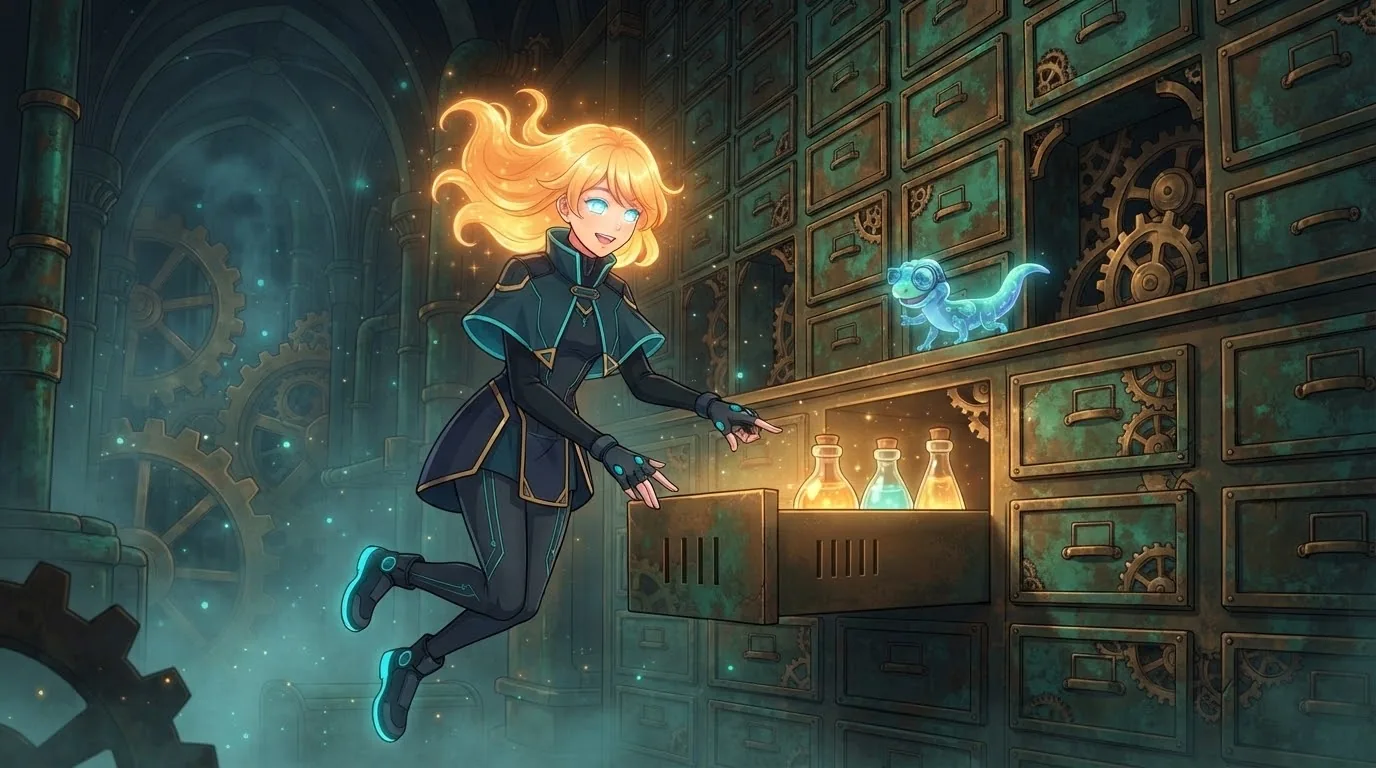
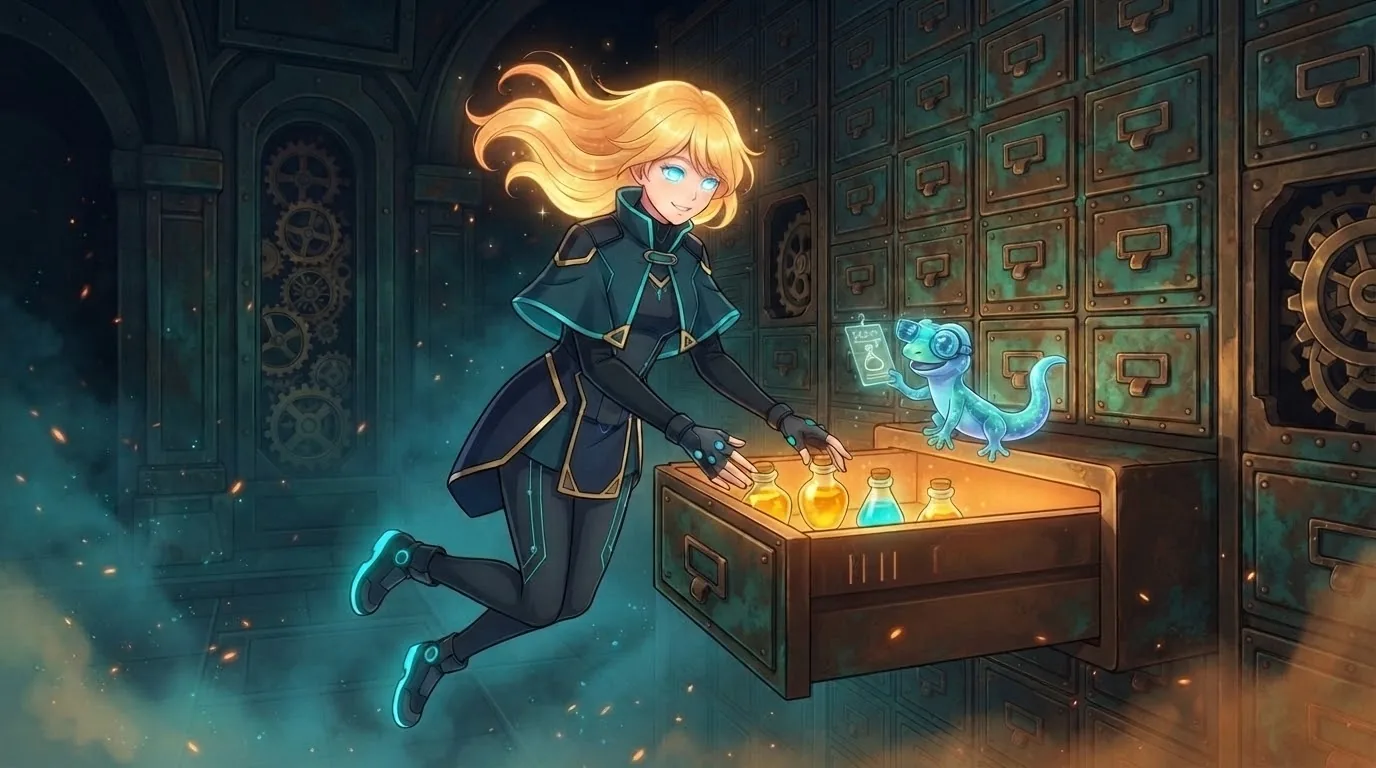
content(ensamblador): R01-N02-P1, P2 y R01-N03-P1 rehechas (Gheco con patas y dedos de más)

diff --git a/docs/ESCENAS.md b/docs/ESCENAS.md
@@ -48,7 +48,7 @@ id, así que se vuelve a pedir.
 | Python | 134 de 134 | Completo (2026-10-15). 24 ya estaban hechas en el proyecto de Python (`16828689365976730624`) sin bajar (R01-N02 a R01-N05): se reconocieron por el ID o el título del pedido. Baldo, Sila, Maese Horas, el Ermitaño y la Copista no tenían ficha en el proyecto: se recrearon ahí desde PERSONAJES.md (`REFS['python']`); la Hidra no tiene ficha. Arreglos a mano: cartel «BALDO» tallado (`R01-N01-P1`), firma en la esquina (`R01-N07-P1` a `P5`), leyenda abajo (`R01-N11-P1`) y el corazón del Gólem pasado a gris (`R03-N07-P5`: Stitch no lo apagaba). Stitch suele agregar abajo la frase literal «ABSOLUTELY NO READABLE LETTERS…»: se desenfoca. Usar la escena anterior del mismo lugar como referencia mantiene el ambiente. |
 | Java | 76 de 229 | En curso: la Clase 0, R01 y R02 (2026-10-15), en el proyecto de Java (`7393382501138179740`, `REFS['java']`); muchas ya estaban generadas sin bajar. En `R02-N01-P1` a `P4` se recortó una franja de texto abajo y en `R02-N01-P3` se borraron a mano los globos de diálogo (la corrección de Stitch cambiaba a Zed y a la Maestra). |
 | C++ | 163 de 163 | Completo (2026-10-16). La Senda S01 (la linterna mágica) se hizo encadenando cada escena con la anterior como referencia del lugar. Bron y Gheco no estaban subidos: se generaron en el proyecto de C++ desde sus fichas (`REFS['cpp']`). El 2026-10-15 anduvo pedir con la escena anterior del mismo lugar como única referencia (o esa + la ficha del personaje que entra) y traducir todo texto a dibujitos («const» → candado, «override» → flecha curva, números → rayitas o puntitos). Ojo: Stitch a veces le cambia el pelo a Bron (negro), duplica goblins o llaves, pone rótulos bajo las lámparas o escribe sus restricciones en una esfera de balanza (`R03-N05-P2`, tapado a mano): corregir con un pedido corto o con PIL si el fondo es liso. |
-| Ensamblador | 27 de 143 | **Para rehacer (anatomía, señaladas por el docente el 2026-10-19):** `R01-N03-P1` (Gheco con patas de más), `R01-N02-P1` y `R01-N02-P2` (Gheco con dedos de más en la pata de la tarjeta). `R00-N01-P4` ya se rehizo (Nova tenía un brazo de más). Revisar SIEMPRE brazos, patas y dedos antes de guardar, y pedir «Nova con exactamente DOS brazos» y «Gheco con CUATRO patas». Los ids de Stitch de cada escena nueva van en `scripts/escenas/ids/ensamblador.json`. |
+| Ensamblador | 27 de 143 | **Arreglos de anatomía (señalados por el docente el 2026-10-19), ya rehechos:** `R00-N01-P4` (Nova con un brazo de más), `R01-N03-P1` (Gheco con patas de más), `R01-N02-P1` y `R01-N02-P2` (Gheco con dedos de más). Quedaron muy parecidas entre sí (`R01-N02-P1`, `P2` y `R01-N03-P1`): variarlas si sobra cuota. Revisar SIEMPRE brazos, patas y dedos antes de guardar, y pedir «Nova con exactamente DOS brazos» y «Gheco con CUATRO patas». Los ids de Stitch de cada escena nueva van en `scripts/escenas/ids/ensamblador.json`. |
 | Ensamblador (antes) | 26 de 31 | Faltan `R01-N03-P7` y `R01-N04-P1`, `P3`, `P6` y `P7` (2026-10-19): las que llevan a Axón o a Kira se cortan por tiempo, con su ficha o descritos con palabras; las de Nova sola salen. En `R01-N04-P5` Stitch cambió a Nova (pelo castaño corto) y se corrigió con [escena, ficha de Nova] y «la chica pasa a ser Nova exactamente como en la segunda»; en `P2` y `P4` sobraba un Gheco (pedir «borrá el gecko de…»). Para rehacer si sobra cuota: `R01-N03-P3` y `P4` (la mochila salió con 3 y 4 bolsillos, no 5) y `P6` (Nova repite la pose de `P5` y no saca la moneda). En R01-N03 anduvo pedir con una sola referencia, la escena `R01-N03-P1` (`9010b157…`), y la mochila de `P3` (`eb5697f1…`); con dos referencias se cortaba seguido. Las primeras 17, en el **proyecto de C** (el Gólem duerme debajo de las Forjas). Nova, Axón, el fondo del interior del Gólem, el logo, la moneda (chispa) y los 6 aspectos de Nova se generaron ahí (`REFS['ensamblador']`). Las escenas usan como referencia el fondo + la ficha de Nova + Gheco, o una escena anterior del mismo lugar (la sala del ojo, la pared de cajones); encadenar siempre la misma da poses repetidas: alternar. Los 6 aspectos salieron en una sola hoja 3×2 recortada con PIL. El 2026-10-19 Nova pasó al diseño recatado (capa de cuello alto, ropa opaca; ficha `66dcc917…`): las 17 escenas, la ficha de Axón y los aspectos se rehicieron con `edit_screens` [escena, ficha de Nova] y el pedido «la chica holograma pasa a ser Nova exactamente como en la segunda, misma pose y lugar». Revisar que no aparezca texto en los visores. |
 | PHP | 86 de 213 | En curso: la Clase 0 y R01 completos (2026-10-13), más 18 sueltas de R03–R05 hechas para la temporada del Puerto (2026-10-14, fila de abajo); R02-N01 a R02-N08 (2026-10-18), encadenando cada escena con la anterior del mismo lugar; sigue `R02-N08-P4`. Ojo en R02: Stitch escribió «LEFT/RIGHT» junto a flechas y rotulitos en estantes (tapados con PIL), a veces dibuja un segundo Gheco en un cartel o le da a Elefa dos bastones (pedir «sostiene con LAS DOS MANOS su ÚNICO bastón»); con la referencia de una escena, Iara y Elefa pueden perder su ropa: corregir pasando su ficha como segunda referencia. La Sirena ya está descrita con blusa cerrada en los .md y en PERSONAJES.md. Ojo: a veces sale un segundo Gheco o una cola cian suelta; pedir «UN SOLO Gheco». Para rehacer si sobra cuota: `R01-N08-P4` (las cajas no quedaron una dentro de la otra). Gheco a veces sale más grande que una mano y algún número de objetos no coincide (3 cajones en vez de 4): se dejaron cuando no cambia la escena. Historia, personajes y mapa en el proyecto de PHP (`REFS['php']`, docs/historias/php.md). Ojo: una corrección con `edit_screens` puede redibujar la escena entera (la de Elefa en el mostrador perdió la gorra de Nilo al arreglarle la bufanda): mirar cada versión. |
 | Inglés · Forjas (temporada 2) | 24 de 24 | Completo (2026-10-14): una portada por episodio, tronco y ramas, `FORJAS-01` a `FORJAS-12` (Ada niña) y `FORJAS-S01` a `FORJAS-S12` (Ada de 15), en `cursos/ingles/escenas/`; las misiones reusan las de C. Hechas en el **proyecto de C** (`12453694413360128121`): Stitch solo toma referencias del mismo proyecto, así que primero se recrearon las hojas de Ada niña (`4eb59d68037844c09f3cf2aafdd77cd4`) y de Ada de 15 (`a94bdbb01fe44e2eb49eea421419838c`) con Eco y el Borrón desde sus fichas, y después cada portada con la hoja + el personaje de la región. **Cada temporada nueva repite esto en el proyecto de su región.** De a una llamada (dos en paralelo ya se cortan); para pasar una escena de Ada niña a Ada de 15, «como la segunda, pero con Ada de 15 de la primera» con la portada de Primaria como referencia sale a la primera. Ojo: a veces le saca las cejas o el pelo a quien no corresponde, o escribe un título: revisar cada una. |
